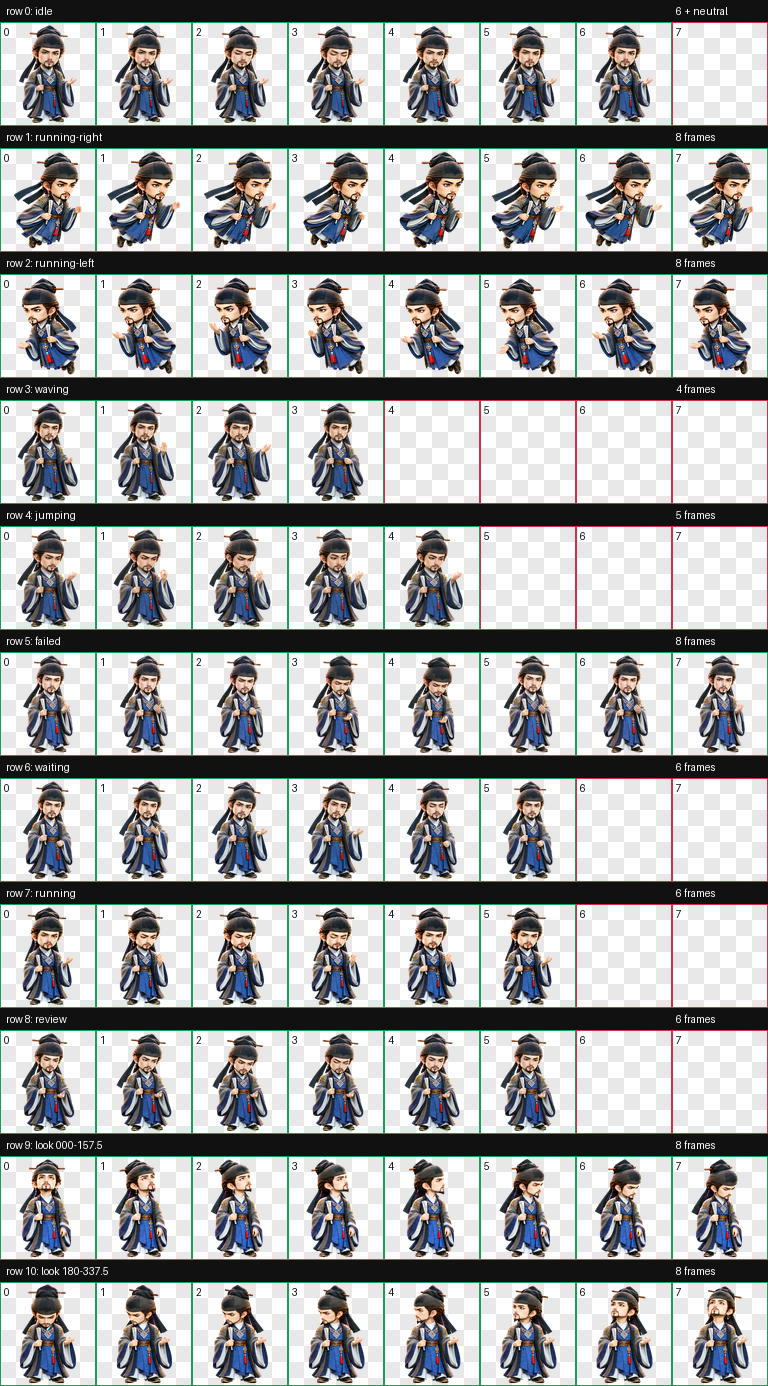
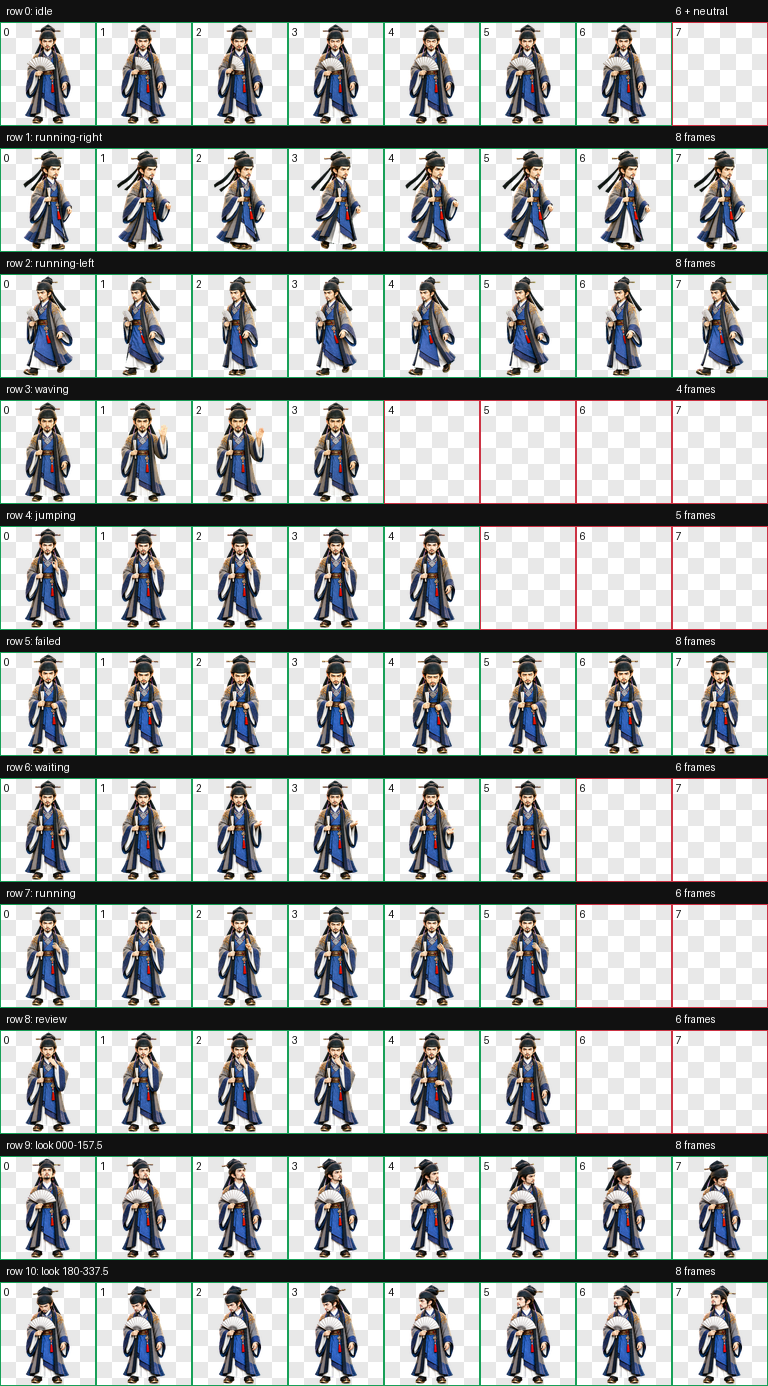
Rework Zhong Shenshi frontal proportions and fan idle

diff --git a/zhong-shenshi/README.md b/zhong-shenshi/README.md
@@ -1,14 +1,14 @@
 # 仲神师
 
-《凡人修仙传》动漫仲神师的精致中国 3D 动漫 Q 版桌宠，约三头身。保留黑色巾帽与横簪、短须、双耳环、蓝灰法袍、金色肩纹和菱形胸饰。
+《凡人修仙传》动漫仲神师的精致中国 3D 动漫桌宠。采用正面成熟造型，参考乐上师的紧凑头身比例，较旧版减弱 Q 感。保留黑色巾帽与横簪、短须、双耳环、蓝灰法袍、金色肩纹和菱形胸饰。
 
-角色自身右手持合拢银色折扇，左手用于掐指推演。`jumping` 按用户要求改为双脚落地的推演循环，表情随计算从凝神、皱眉思索变化到有所领悟，再回到平静。
+角色自身右手持银色折扇，待机时展开轻轻扇风，配合呼吸和眨眼，左手自然垂放。其他状态按动作收拢或微开折扇，始终保持右手侧别。`jumping` 按用户要求保留双脚落地、左手掐指推演的循环，表情从凝神、皱眉思索变化到有所领悟，再回到平静。
 
 ## 预览
 
-![左手推演](assets/jumping.gif)
+![正面待机扇扇子](assets/idle.gif)
 
-![待机](assets/idle.gif)
+![左手推演](assets/jumping.gif)
 
 ![完整联系表](assets/contact-sheet.png)
 
@@ -16,15 +16,16 @@
 
 | 状态 | 动作设计 |
 | --- | --- |
-| `idle` | 持合拢折扇，轻微呼吸、眨眼，左手保持安静姿态 |
-| `running-right` / `running-left` | 向对应方向御空滑行，手腕、袖摆与衣摆连续变化，保留折扇右手侧别与人物尺度 |
+| `idle` | 正面站立，右手持展开银扇轻扇，配合呼吸和眨眼，左手自然垂放 |
+| `running-right` | 朝屏幕右侧直立滑行，脚部、袖摆与帽带交替变化，保持待机人物尺度 |
+| `running-left` | 朝屏幕左侧短步行，伸步与双脚交会交替出现，保持长袍、人物尺度和折扇右手侧别 |
 | `waving` | 左手轻挥致意，右手折扇稳定 |
 | `jumping` | 双脚落地，左手掐指推演，眉眼与嘴角随思考变化 |
 | `failed` | 推演受阻，眉眼低落，轻微垂首 |
 | `waiting` | 期待回应的询问姿态 |
 | `running` | 专注处理任务的克制思考姿态 |
 | `review` | 凝神检查结果 |
-| look directions | 身体下部稳定，眼睛、头颈与上身自然跟随 16 个顺时针方向 |
+| look directions | 下身与脚底位置稳定，眼睛、头颈和少量上身自然跟随 16 个顺时针方向，右手保持展开银扇 |
 
 ## 安装
 
@@ -46,11 +47,12 @@ Copy-Item ".\$petId\pet.json", ".\$petId\spritesheet.webp" -Destination $target 
 - `validate_atlas.py --require-v2` 通过，无错误或警告；未使用单元格透明。
 - 单次确定性透明边缘处理通过，透明像素隐藏 RGB 残留为 0。
 - 标准动作、方向语义、连续性和最终视觉 QA 均通过。
-- 三组独立方向盲测采用严格多数，14 组测试全部匹配，无错误或警告。
-- 接受的轻微视觉说明：292.5° 上左方向的抬眼幅度较克制；行间掌形变化和鞋间透明空隙经视觉检查确认自然，无明显缩放跳变或破损。
+- 三组独立方向盲测采用严格多数，四个正方向全部通过；14 组轴向测试中没有硬性错误。
+- 接受的轻微视觉说明：67.5°、112.5°、292.5°、315°、337.5° 的垂直线索在盲测中较轻，经有标签的完整方向环复核确认象限正确。157.5° → 180° 与 337.5° → 0° 的转头间距稍不均匀，没有明显尺度、身份或道具跳变。
+- 展开银扇自然遮住部分胸饰；左移动时折扇微开。均保持同一银扇及右手侧别，面部可读。
 
 ## 源文件
 
-2026-10-12 使用内置 imagegen 生成视觉素材，使用 `hatch-pet` 脚本提取、组装和校验。用户确认的候选稿用于锁定身份，正式生产基本图另行生成并通过检查。
+2026-10-13 使用内置 imagegen 重做生产基本图及全部动作，使用 `hatch-pet` 脚本提取、组装和校验。用户批准的乐上师比例候选稿用于锁定设计，正式生产基本图另行生成并通过检查。最终 GIF 预览从完成单次透明边缘处理后的发布图集导出。
 
-生产输入、完整提示词、未采用的生成结果、中间产物和 QA 证据保存在本地 `source/zhong-shenshi-20261012/`。各动作提示词在 `prompts/rows/`，生产基本图提示词为 `prompts/base-pet.md`，最终报告为 `qa/run-summary.json`。仓库配置默认不将 `source/` 纳入发布。
+本次生产输入、完整提示词、未采用的生成结果、中间产物和 QA 证据保存在本地 `source/zhong-shenshi-20261013-front/`。各动作提示词在 `prompts/rows/`，生产基本图提示词为 `prompts/base-production.md`，最终报告为 `qa/run-summary.json`。旧版 `source/zhong-shenshi-20261012/` 保留，仓库配置默认不将 `source/` 纳入发布。

diff --git a/README.md b/README.md
@@ -23,7 +23,7 @@
 | 凌玉灵（`lingyuling`） | 灰白金星宫长袍、右侧弧形梳饰与清雅眉眼，悬停时正面双手比心 | Codex Pet Sprite v2 | [查看角色](lingyuling/README.md) |
 | 南宫阙（`nangong-que`） | 黑色高髻、额心银白纹饰与蓝紫银纹长袍的冷静女修，悬停时双脚落地拂袖结印 | Codex Pet Sprite v2 | [查看角色](nangong-que/README.md) |
 | 李缨宁（`liyingning`） | 双辫、灰白青绿侠装、佩剑与暖阳宝玉的灵秀少女，悬停时低头轻触宝玉 | Codex Pet Sprite v2 | [查看角色](liyingning/README.md) |
-| 仲神师（`zhong-shenshi`） | 黑色巾帽、短须与蓝灰法袍，右手持折扇，悬停时左手掐指推演并变化表情 | Codex Pet Sprite v2 | [查看角色](zhong-shenshi/README.md) |
+| 仲神师（`zhong-shenshi`） | 正面成熟造型、黑色巾帽与蓝灰法袍，待机持银扇轻扇，悬停时左手掐指推演并变化表情 | Codex Pet Sprite v2 | [查看角色](zhong-shenshi/README.md) |
 | 柳玉（`liuyu`） | 黑色半束长发、蓝色额坠、绿衣紫肩与金铜饰件，悬停时双手交叉放在胸前 | Codex Pet Sprite v2 | [查看角色](liuyu/README.md) |
 
 ## 仓库结构
